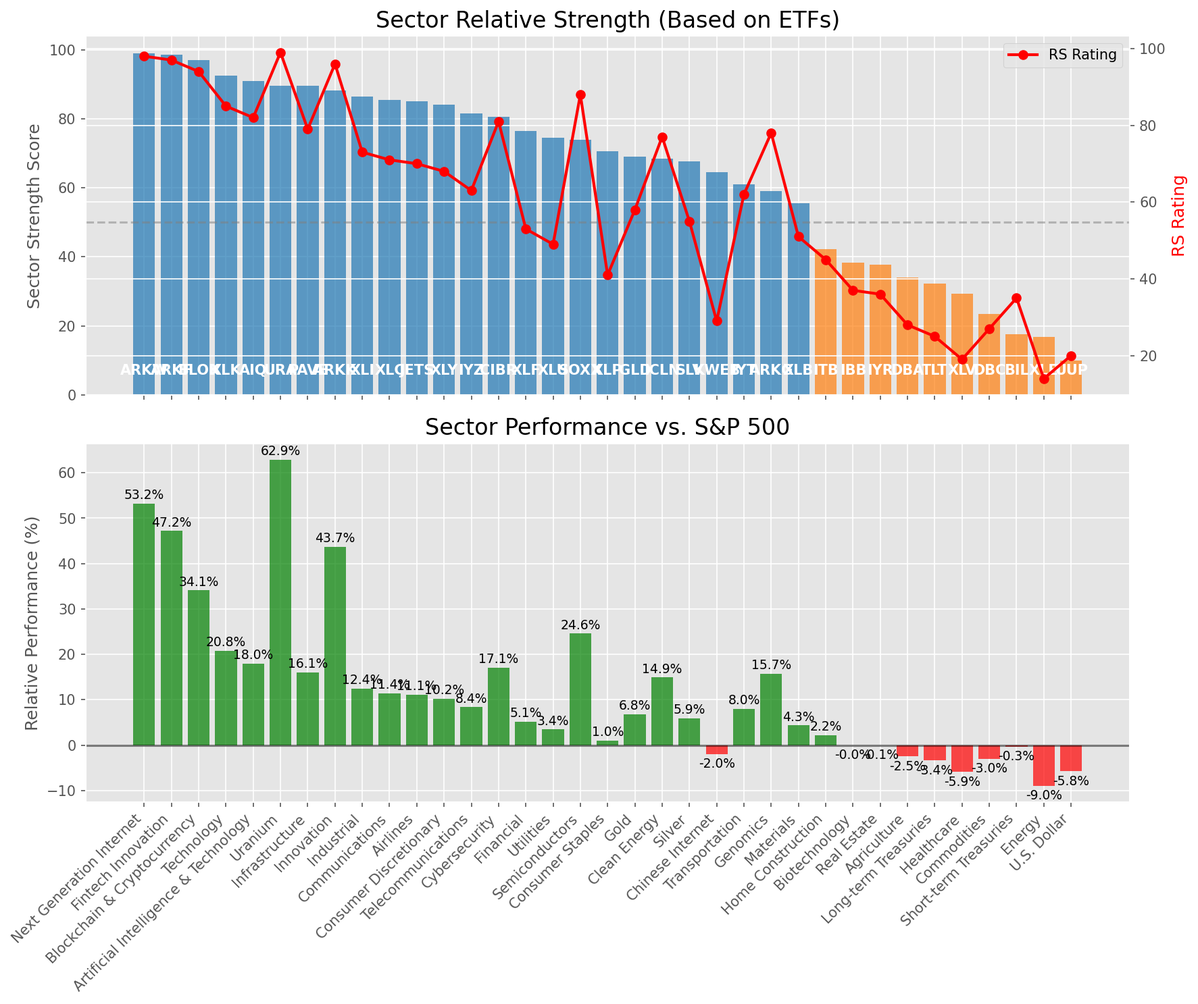
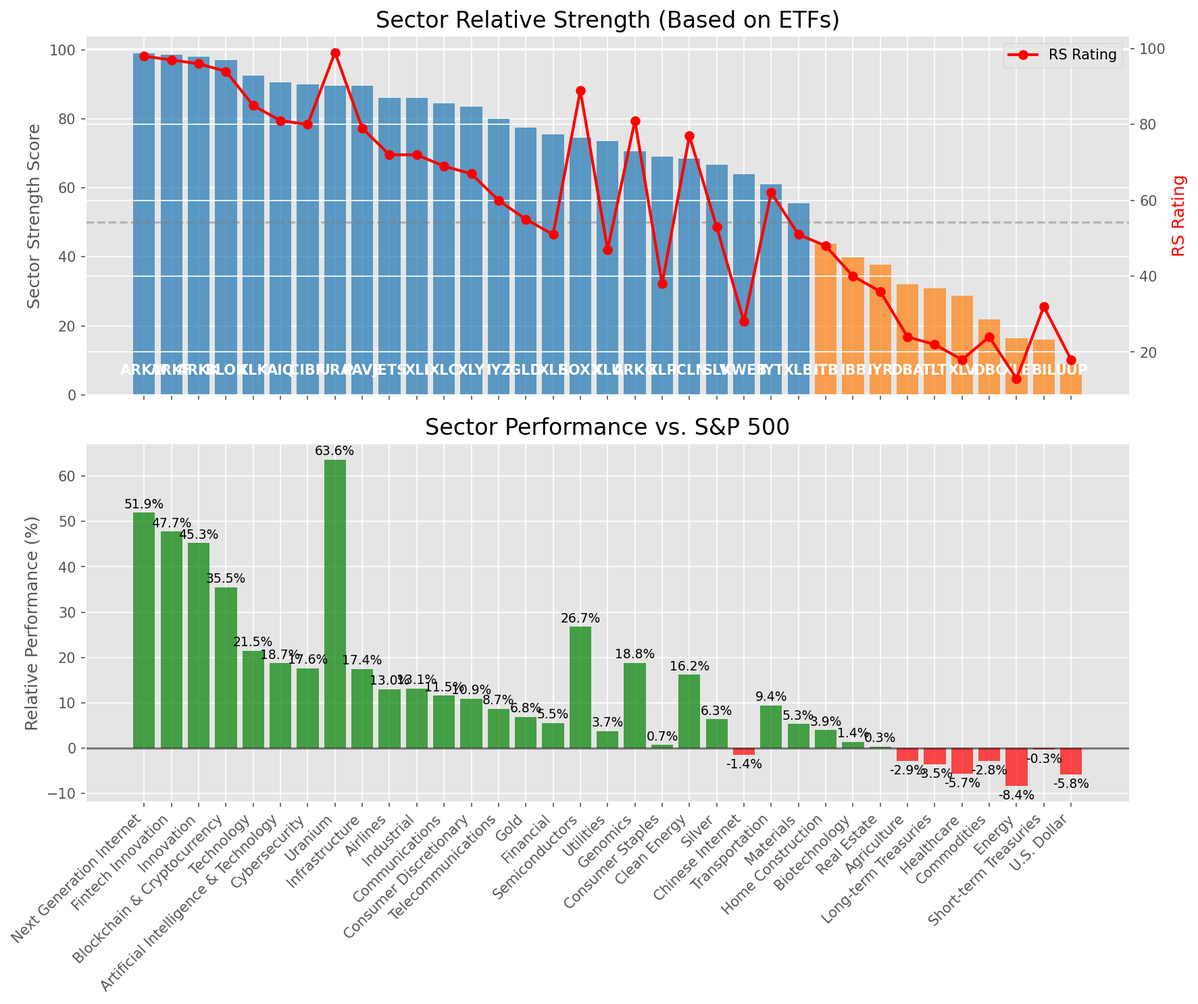
Add market report for 2025-07-01

diff --git a/oneil_relative_strength_report_2025-07-01.md b/oneil_relative_strength_report_2025-07-01.md
@@ -9,11 +9,11 @@
 | Metric | Value |
 |--------|-------|
 | **Market Valuation** | **Overvalued** |
-| **Current Ratio** | 10.12 |
+| **Current Ratio** | 10.15 |
 | **Historical Mean** | 9.36 |
 | **Standard Deviation** | 0.46 |
 | **Z-Score (StdDev from Mean)** | 1.69 |
-| **Total Market Cap** | $303.17 trillion |
+| **Total Market Cap** | $304.20 trillion |
 | **GDP** | $29.96 trillion |
 
 ## **Market Insights**
@@ -49,41 +49,41 @@ Based on William O'Neil's Relative Strength Methodology
 
 | ETF | Strength | RS Rating | Performance | Above Key MAs | Trend | Sector |
 |-----|----------|-----------|-------------|--------------|-------|--------|
-| [ARKW](https://www.tradingview.com/chart/?symbol=ARKW) | 99.0 | 98.0 | 53.20% | 10d ✓, 50d ✓, 200d ✓ | ↗ | Next Generation Internet |
-| [ARKF](https://www.tradingview.com/chart/?symbol=ARKF) | 98.5 | 97.0 | 47.17% | 10d ✓, 50d ✓, 200d ✓ | ↗ | Fintech Innovation |
-| [BLOK](https://www.tradingview.com/chart/?symbol=BLOK) | 97.0 | 94.0 | 34.08% | 10d ✓, 50d ✓, 200d ✓ | ↗ | Blockchain & Cryptocurrency |
-| [XLK](https://www.tradingview.com/chart/?symbol=XLK) | 92.5 | 85.0 | 20.81% | 10d ✓, 50d ✓, 200d ✓ | ↗ | Technology |
-| [AIQ](https://www.tradingview.com/chart/?symbol=AIQ) | 91.0 | 82.0 | 18.00% | 10d ✓, 50d ✓, 200d ✓ | ↗ | Artificial Intelligence & Technology |
-| [URA](https://www.tradingview.com/chart/?symbol=URA) | 89.6 | 99.0 | 62.89% | 10d ✗, 50d ✓, 200d ✓ | ↗ | Uranium |
-| [PAVE](https://www.tradingview.com/chart/?symbol=PAVE) | 89.5 | 79.0 | 16.06% | 10d ✓, 50d ✓, 200d ✓ | ↗ | Infrastructure |
-| [ARKK](https://www.tradingview.com/chart/?symbol=ARKK) | 88.1 | 96.0 | 43.74% | 10d ✗, 50d ✓, 200d ✓ | ↗ | Innovation |
-| [XLI](https://www.tradingview.com/chart/?symbol=XLI) | 86.5 | 73.0 | 12.44% | 10d ✓, 50d ✓, 200d ✓ | ↗ | Industrial |
-| [XLC](https://www.tradingview.com/chart/?symbol=XLC) | 85.5 | 71.0 | 11.40% | 10d ✓, 50d ✓, 200d ✓ | ↗ | Communications |
-| [JETS](https://www.tradingview.com/chart/?symbol=JETS) | 85.0 | 70.0 | 11.07% | 10d ✓, 50d ✓, 200d ✓ | ↗ | Airlines |
-| [XLY](https://www.tradingview.com/chart/?symbol=XLY) | 84.0 | 68.0 | 10.19% | 10d ✓, 50d ✓, 200d ✓ | ↗ | Consumer Discretionary |
-| [IYZ](https://www.tradingview.com/chart/?symbol=IYZ) | 81.5 | 63.0 | 8.36% | 10d ✓, 50d ✓, 200d ✓ | ↗ | Telecommunications |
-| [CIBR](https://www.tradingview.com/chart/?symbol=CIBR) | 80.6 | 81.0 | 17.10% | 10d ✗, 50d ✓, 200d ✓ | ↗ | Cybersecurity |
-| [XLF](https://www.tradingview.com/chart/?symbol=XLF) | 76.5 | 53.0 | 5.14% | 10d ✓, 50d ✓, 200d ✓ | ↗ | Financial |
-| [XLU](https://www.tradingview.com/chart/?symbol=XLU) | 74.5 | 49.0 | 3.45% | 10d ✓, 50d ✓, 200d ✓ | ↗ | Utilities |
-| [SOXX](https://www.tradingview.com/chart/?symbol=SOXX) | 74.0 | 88.0 | 24.59% | 10d ✓, 50d ✓, 200d ✓ | ↘ | Semiconductors |
-| [XLP](https://www.tradingview.com/chart/?symbol=XLP) | 70.5 | 41.0 | 0.96% | 10d ✓, 50d ✓, 200d ✓ | ↗ | Consumer Staples |
-| [GLD](https://www.tradingview.com/chart/?symbol=GLD) | 69.1 | 58.0 | 6.77% | 10d ✗, 50d ✓, 200d ✓ | ↗ | Gold |
-| [ICLN](https://www.tradingview.com/chart/?symbol=ICLN) | 68.5 | 77.0 | 14.89% | 10d ✓, 50d ✓, 200d ✓ | ↘ | Clean Energy |
-| [SLV](https://www.tradingview.com/chart/?symbol=SLV) | 67.6 | 55.0 | 5.94% | 10d ✗, 50d ✓, 200d ✓ | ↗ | Silver |
-| [KWEB](https://www.tradingview.com/chart/?symbol=KWEB) | 64.5 | 29.0 | -2.01% | 10d ✓, 50d ✓, 200d ✓ | ↗ | Chinese Internet |
-| [IYT](https://www.tradingview.com/chart/?symbol=IYT) | 61.0 | 62.0 | 8.00% | 10d ✓, 50d ✓, 200d ✓ | ↘ | Transportation |
-| [ARKG](https://www.tradingview.com/chart/?symbol=ARKG) | 59.1 | 78.0 | 15.71% | 10d ✗, 50d ✓, 200d ✓ | ↘ | Genomics |
-| [XLB](https://www.tradingview.com/chart/?symbol=XLB) | 55.5 | 51.0 | 4.34% | 10d ✓, 50d ✓, 200d ✓ | ↘ | Materials |
-| [ITB](https://www.tradingview.com/chart/?symbol=ITB) | 42.3 | 45.0 | 2.18% | 10d ✓, 50d ✓, 200d ✗ | ↘ | Home Construction |
-| [IBB](https://www.tradingview.com/chart/?symbol=IBB) | 38.3 | 37.0 | -0.03% | 10d ✓, 50d ✓, 200d ✗ | ↘ | Biotechnology |
-| [IYR](https://www.tradingview.com/chart/?symbol=IYR) | 37.8 | 36.0 | -0.10% | 10d ✓, 50d ✓, 200d ✗ | ↘ | Real Estate |
-| [DBA](https://www.tradingview.com/chart/?symbol=DBA) | 34.0 | 28.0 | -2.52% | 10d ✗, 50d ✗, 200d ✗ | ↗ | Agriculture |
-| [TLT](https://www.tradingview.com/chart/?symbol=TLT) | 32.3 | 25.0 | -3.38% | 10d ✓, 50d ✓, 200d ✗ | ↘ | Long-term Treasuries |
-| [XLV](https://www.tradingview.com/chart/?symbol=XLV) | 29.3 | 19.0 | -5.92% | 10d ✓, 50d ✓, 200d ✗ | ↘ | Healthcare |
-| [DBC](https://www.tradingview.com/chart/?symbol=DBC) | 23.4 | 27.0 | -3.02% | 10d ✗, 50d ✓, 200d ✗ | ↘ | Commodities |
-| [BIL](https://www.tradingview.com/chart/?symbol=BIL) | 17.5 | 35.0 | -0.32% | 10d ✗, 50d ✗, 200d ✗ | ↘ | Short-term Treasuries |
-| [XLE](https://www.tradingview.com/chart/?symbol=XLE) | 16.9 | 14.0 | -9.00% | 10d ✗, 50d ✓, 200d ✗ | ↘ | Energy |
-| [UUP](https://www.tradingview.com/chart/?symbol=UUP) | 10.0 | 20.0 | -5.78% | 10d ✗, 50d ✗, 200d ✗ | ↘ | U.S. Dollar |
+| [ARKW](https://www.tradingview.com/chart/?symbol=ARKW) | 99.0 | 98.0 | 51.92% | 10d ✓, 50d ✓, 200d ✓ | ↗ | Next Generation Internet |
+| [ARKF](https://www.tradingview.com/chart/?symbol=ARKF) | 98.5 | 97.0 | 47.75% | 10d ✓, 50d ✓, 200d ✓ | ↗ | Fintech Innovation |
+| [ARKK](https://www.tradingview.com/chart/?symbol=ARKK) | 98.0 | 96.0 | 45.25% | 10d ✓, 50d ✓, 200d ✓ | ↗ | Innovation |
+| [BLOK](https://www.tradingview.com/chart/?symbol=BLOK) | 97.0 | 94.0 | 35.52% | 10d ✓, 50d ✓, 200d ✓ | ↗ | Blockchain & Cryptocurrency |
+| [XLK](https://www.tradingview.com/chart/?symbol=XLK) | 92.5 | 85.0 | 21.50% | 10d ✓, 50d ✓, 200d ✓ | ↗ | Technology |
+| [AIQ](https://www.tradingview.com/chart/?symbol=AIQ) | 90.5 | 81.0 | 18.71% | 10d ✓, 50d ✓, 200d ✓ | ↗ | Artificial Intelligence & Technology |
+| [CIBR](https://www.tradingview.com/chart/?symbol=CIBR) | 90.0 | 80.0 | 17.62% | 10d ✓, 50d ✓, 200d ✓ | ↗ | Cybersecurity |
+| [URA](https://www.tradingview.com/chart/?symbol=URA) | 89.6 | 99.0 | 63.63% | 10d ✗, 50d ✓, 200d ✓ | ↗ | Uranium |
+| [PAVE](https://www.tradingview.com/chart/?symbol=PAVE) | 89.5 | 79.0 | 17.44% | 10d ✓, 50d ✓, 200d ✓ | ↗ | Infrastructure |
+| [JETS](https://www.tradingview.com/chart/?symbol=JETS) | 86.0 | 72.0 | 12.95% | 10d ✓, 50d ✓, 200d ✓ | ↗ | Airlines |
+| [XLI](https://www.tradingview.com/chart/?symbol=XLI) | 86.0 | 72.0 | 13.12% | 10d ✓, 50d ✓, 200d ✓ | ↗ | Industrial |
+| [XLC](https://www.tradingview.com/chart/?symbol=XLC) | 84.5 | 69.0 | 11.54% | 10d ✓, 50d ✓, 200d ✓ | ↗ | Communications |
+| [XLY](https://www.tradingview.com/chart/?symbol=XLY) | 83.5 | 67.0 | 10.93% | 10d ✓, 50d ✓, 200d ✓ | ↗ | Consumer Discretionary |
+| [IYZ](https://www.tradingview.com/chart/?symbol=IYZ) | 80.0 | 60.0 | 8.67% | 10d ✓, 50d ✓, 200d ✓ | ↗ | Telecommunications |
+| [GLD](https://www.tradingview.com/chart/?symbol=GLD) | 77.5 | 55.0 | 6.85% | 10d ✓, 50d ✓, 200d ✓ | ↗ | Gold |
+| [XLF](https://www.tradingview.com/chart/?symbol=XLF) | 75.5 | 51.0 | 5.49% | 10d ✓, 50d ✓, 200d ✓ | ↗ | Financial |
+| [SOXX](https://www.tradingview.com/chart/?symbol=SOXX) | 74.5 | 89.0 | 26.74% | 10d ✓, 50d ✓, 200d ✓ | ↘ | Semiconductors |
+| [XLU](https://www.tradingview.com/chart/?symbol=XLU) | 73.5 | 47.0 | 3.69% | 10d ✓, 50d ✓, 200d ✓ | ↗ | Utilities |
+| [ARKG](https://www.tradingview.com/chart/?symbol=ARKG) | 70.5 | 81.0 | 18.76% | 10d ✓, 50d ✓, 200d ✓ | ↘ | Genomics |
+| [XLP](https://www.tradingview.com/chart/?symbol=XLP) | 69.0 | 38.0 | 0.69% | 10d ✓, 50d ✓, 200d ✓ | ↗ | Consumer Staples |
+| [ICLN](https://www.tradingview.com/chart/?symbol=ICLN) | 68.5 | 77.0 | 16.20% | 10d ✓, 50d ✓, 200d ✓ | ↘ | Clean Energy |
+| [SLV](https://www.tradingview.com/chart/?symbol=SLV) | 66.6 | 53.0 | 6.32% | 10d ✗, 50d ✓, 200d ✓ | ↗ | Silver |
+| [KWEB](https://www.tradingview.com/chart/?symbol=KWEB) | 64.0 | 28.0 | -1.44% | 10d ✓, 50d ✓, 200d ✓ | ↗ | Chinese Internet |
+| [IYT](https://www.tradingview.com/chart/?symbol=IYT) | 61.0 | 62.0 | 9.40% | 10d ✓, 50d ✓, 200d ✓ | ↘ | Transportation |
+| [XLB](https://www.tradingview.com/chart/?symbol=XLB) | 55.5 | 51.0 | 5.33% | 10d ✓, 50d ✓, 200d ✓ | ↘ | Materials |
+| [ITB](https://www.tradingview.com/chart/?symbol=ITB) | 43.8 | 48.0 | 3.95% | 10d ✓, 50d ✓, 200d ✗ | ↘ | Home Construction |
+| [IBB](https://www.tradingview.com/chart/?symbol=IBB) | 39.8 | 40.0 | 1.39% | 10d ✓, 50d ✓, 200d ✗ | ↘ | Biotechnology |
+| [IYR](https://www.tradingview.com/chart/?symbol=IYR) | 37.8 | 36.0 | 0.28% | 10d ✓, 50d ✓, 200d ✗ | ↘ | Real Estate |
+| [DBA](https://www.tradingview.com/chart/?symbol=DBA) | 32.0 | 24.0 | -2.88% | 10d ✗, 50d ✗, 200d ✗ | ↗ | Agriculture |
+| [TLT](https://www.tradingview.com/chart/?symbol=TLT) | 30.8 | 22.0 | -3.55% | 10d ✓, 50d ✓, 200d ✗ | ↘ | Long-term Treasuries |
+| [XLV](https://www.tradingview.com/chart/?symbol=XLV) | 28.8 | 18.0 | -5.67% | 10d ✓, 50d ✓, 200d ✗ | ↘ | Healthcare |
+| [DBC](https://www.tradingview.com/chart/?symbol=DBC) | 21.9 | 24.0 | -2.84% | 10d ✗, 50d ✓, 200d ✗ | ↘ | Commodities |
+| [XLE](https://www.tradingview.com/chart/?symbol=XLE) | 16.4 | 13.0 | -8.37% | 10d ✗, 50d ✓, 200d ✗ | ↘ | Energy |
+| [BIL](https://www.tradingview.com/chart/?symbol=BIL) | 16.0 | 32.0 | -0.32% | 10d ✗, 50d ✗, 200d ✗ | ↘ | Short-term Treasuries |
+| [UUP](https://www.tradingview.com/chart/?symbol=UUP) | 9.0 | 18.0 | -5.78% | 10d ✗, 50d ✗, 200d ✗ | ↘ | U.S. Dollar |
 
 ### **Sector ETF Performance Interpretation**
 
@@ -98,167 +98,145 @@ This table shows the relative strength metrics for different market sectors base
 
 ### **Current Sector Leadership**
 
-The current market leadership is coming from the following sectors: **Next Generation Internet, Fintech Innovation, Blockchain & Cryptocurrency**.
+The current market leadership is coming from the following sectors: **Next Generation Internet, Fintech Innovation, Innovation**.
 
-The **Next Generation Internet** sector (represented by **ARKW**) is showing particularly strong relative strength with an RS rating of 98.0 and performance of 53.20% vs. the S&P 500. This sector is trading above its 10-day, 50-day, 200-day moving average(s). Investors should consider focusing on high RS stocks within these leading sectors for potential outperformance.
+The **Next Generation Internet** sector (represented by **ARKW**) is showing particularly strong relative strength with an RS rating of 98.0 and performance of 51.92% vs. the S&P 500. This sector is trading above its 10-day, 50-day, 200-day moving average(s). Investors should consider focusing on high RS stocks within these leading sectors for potential outperformance.
 
 ---
 
 ## **Buy Recommendations**
 
-The following 62 stocks show exceptional relative strength:
+The following 59 stocks show exceptional relative strength:
 
 | RS Rating | Buy Score | Current Price | Chart | Name | Ticker |
 |-----------|-----------|---------------|-------|------|--------|
+| 100 | 100 | $146.01 | [Chart](https://www.tradingview.com/chart/?symbol=CLS) | Celestica, Inc. | CLS |
 | 100 | 100 | $140.10 | [Chart](https://www.tradingview.com/chart/?symbol=LMB) | Limbach Holdings, Inc Common Stock | LMB |
-| 100 | 100 | $166.50 | [Chart](https://www.tradingview.com/chart/?symbol=SEZL) | Sezzle Inc. Common Stock | SEZL |
-| 100 | 100 | $91.02 | [Chart](https://www.tradingview.com/chart/?symbol=HOOD) | Robinhood Markets, Inc. Class A Common Stock | HOOD |
-| 100 | 100 | $145.58 | [Chart](https://www.tradingview.com/chart/?symbol=CLS) | Celestica, Inc. | CLS |
-| 100 | 100 | $260.63 | [Chart](https://www.tradingview.com/chart/?symbol=DAVE) | Dave Inc. Class A Common Stock | DAVE |
-| 99 | 100 | $74.00 | [Chart](https://www.tradingview.com/chart/?symbol=ODD) | ODDITY Tech Ltd. Class A Ordinary Shares | ODD |
-| 99 | 100 | $334.16 | [Chart](https://www.tradingview.com/chart/?symbol=CVNA) | Carvana Co. | CVNA |
-| 98 | 100 | $214.54 | [Chart](https://www.tradingview.com/chart/?symbol=JBL) | Jabil Inc. | JBL |
-| 98 | 100 | $309.87 | [Chart](https://www.tradingview.com/chart/?symbol=RCL) | Royal Caribbean Group | RCL |
-| 98 | 100 | $43.92 | [Chart](https://www.tradingview.com/chart/?symbol=FARO) | Faro Technologies Inc | FARO |
-| 97 | 100 | $43.23 | [Chart](https://www.tradingview.com/chart/?symbol=KTOS) | Kratos Defense & Security Solutions, Inc. | KTOS |
-| 97 | 100 | $268.91 | [Chart](https://www.tradingview.com/chart/?symbol=CRS) | Carpenter Technology Corp | CRS |
-| 96 | 100 | $37.55 | [Chart](https://www.tradingview.com/chart/?symbol=AS) | Amer Sports, Inc. | AS |
-| 95 | 100 | $1292.14 | [Chart](https://www.tradingview.com/chart/?symbol=NFLX) | NetFlix Inc | NFLX |
-| 95 | 100 | $72.53 | [Chart](https://www.tradingview.com/chart/?symbol=URBN) | Urban Outfitters Inc | URBN |
-| 95 | 100 | $179.73 | [Chart](https://www.tradingview.com/chart/?symbol=HWM) | Howmet Aerospace Inc. | HWM |
-| 94 | 100 | $242.29 | [Chart](https://www.tradingview.com/chart/?symbol=WWD) | Woodward, Inc. | WWD |
-| 93 | 100 | $75.77 | [Chart](https://www.tradingview.com/chart/?symbol=TPB) | Turning Point Brands, Inc. | TPB |
-| 93 | 100 | $41.13 | [Chart](https://www.tradingview.com/chart/?symbol=KD) | Kyndryl Holdings, Inc. | KD |
-| 92 | 100 | $63.60 | [Chart](https://www.tradingview.com/chart/?symbol=CAKE) | Cheesecake Factory (The) | CAKE |
-| 92 | 100 | $17.39 | [Chart](https://www.tradingview.com/chart/?symbol=DAN) | Dana Incorporated | DAN |
-| 92 | 100 | $72.86 | [Chart](https://www.tradingview.com/chart/?symbol=ULS) | UL Solutions Inc. | ULS |
-| 92 | 100 | $104.36 | [Chart](https://www.tradingview.com/chart/?symbol=JCI) | Johnson Controls International plc | JCI |
-| 91 | 100 | $53.31 | [Chart](https://www.tradingview.com/chart/?symbol=IBKR) | Interactive Brokers Group, Inc. Class A Common Stock | IBKR |
-| 91 | 100 | $24.64 | [Chart](https://www.tradingview.com/chart/?symbol=KAR) | OPENLANE, Inc | KAR |
-| 91 | 100 | $32.69 | [Chart](https://www.tradingview.com/chart/?symbol=PRDO) | Perdoceo Education Corporation | PRDO |
-| 90 | 100 | $27.50 | [Chart](https://www.tradingview.com/chart/?symbol=SRAD) | Sportradar Group AG Class A Ordinary Shares | SRAD |
-| 90 | 100 | $97.83 | [Chart](https://www.tradingview.com/chart/?symbol=SANM) | Sanmina  Corp | SANM |
-| 89 | 100 | $88.21 | [Chart](https://www.tradingview.com/chart/?symbol=TPR) | Tapestry, Inc. Common Stock | TPR |
-| 89 | 100 | $5789.24 | [Chart](https://www.tradingview.com/chart/?symbol=BKNG) | Booking Holdings Inc. Common Stock | BKNG |
-| 89 | 100 | $150.52 | [Chart](https://www.tradingview.com/chart/?symbol=COOP) | Mr. Cooper Group Inc. Common Stock | COOP |
-| 87 | 100 | $183.00 | [Chart](https://www.tradingview.com/chart/?symbol=EAT) | Brinker International, Inc. | EAT |
-| 88 | 99 | $248.10 | [Chart](https://www.tradingview.com/chart/?symbol=GE) | GE Aerospace | GE |
-| 86 | 99 | $166.97 | [Chart](https://www.tradingview.com/chart/?symbol=CAH) | Cardinal Health, Inc. | CAH |
-| 88 | 98 | $141.69 | [Chart](https://www.tradingview.com/chart/?symbol=PPA) | Invesco Aerospace & Defense ETF | PPA |
-| 86 | 98 | $122.63 | [Chart](https://www.tradingview.com/chart/?symbol=EHC) | Encompass Health Corporation Common Stock | EHC |
-| 84 | 98 | $21.27 | [Chart](https://www.tradingview.com/chart/?symbol=KT) | KT Corp. | KT |
-| 84 | 98 | $91.14 | [Chart](https://www.tradingview.com/chart/?symbol=SNEX) | StoneX Group Inc. Common Stock | SNEX |
-| 86 | 97 | $27.73 | [Chart](https://www.tradingview.com/chart/?symbol=UVE) | UNIVERSAL INSURANCE HLDG, INC. | UVE |
-| 84 | 97 | $29.27 | [Chart](https://www.tradingview.com/chart/?symbol=CAE) | CAE INC | CAE |
-| 84 | 97 | $36.23 | [Chart](https://www.tradingview.com/chart/?symbol=AHR) | American Healthcare REIT, Inc. | AHR |
-| 87 | 96 | $48.15 | [Chart](https://www.tradingview.com/chart/?symbol=SIL) | Global X Silver Miners ETF (NEW) | SIL |
-| 85 | 96 | $184.72 | [Chart](https://www.tradingview.com/chart/?symbol=ITA) | iShares U.S. Aerospace & Defense ETF | ITA |
-| 83 | 96 | $18.23 | [Chart](https://www.tradingview.com/chart/?symbol=BCS) | Barclays PLC | BCS |
-| 83 | 96 | $63.81 | [Chart](https://www.tradingview.com/chart/?symbol=CHEF) | The Chef's Warehouse Inc | CHEF |
-| 83 | 96 | $43.88 | [Chart](https://www.tradingview.com/chart/?symbol=EXEL) | Exelixis Inc | EXEL |
-| 83 | 94 | $74.98 | [Chart](https://www.tradingview.com/chart/?symbol=CTVA) | Corteva, Inc. Common Stock | CTVA |
-| 82 | 94 | $510.27 | [Chart](https://www.tradingview.com/chart/?symbol=CASY) | Casey's General Stores Inc | CASY |
-| 81 | 94 | $290.96 | [Chart](https://www.tradingview.com/chart/?symbol=IBM) | International Business Machines Corporation | IBM |
-| 83 | 93 | $50.70 | [Chart](https://www.tradingview.com/chart/?symbol=GH) | Guardant Health, Inc. Common Stock | GH |
-| 83 | 93 | $110.33 | [Chart](https://www.tradingview.com/chart/?symbol=SPMO) | Invesco S&P 500 Momentum ETF | SPMO |
-| 83 | 93 | $212.56 | [Chart](https://www.tradingview.com/chart/?symbol=COF) | Capital One Financial | COF |
-| 82 | 93 | $77.36 | [Chart](https://www.tradingview.com/chart/?symbol=USFD) | US Foods Holding Corp. | USFD |
-| 82 | 93 | $20.41 | [Chart](https://www.tradingview.com/chart/?symbol=SPNT) | SiriusPoint Ltd. | SPNT |
-| 82 | 93 | $100.31 | [Chart](https://www.tradingview.com/chart/?symbol=LBRDK) | Liberty Broadband Corporation Class C | LBRDK |
-| 82 | 93 | $221.81 | [Chart](https://www.tradingview.com/chart/?symbol=BAP) | Credicorp LTD | BAP |
-| 80 | 92 | $79.70 | [Chart](https://www.tradingview.com/chart/?symbol=LLYVK) | Liberty Media Corporation Series C Liberty Live Common Stock | LLYVK |
-| 82 | 91 | $120.70 | [Chart](https://www.tradingview.com/chart/?symbol=FUTU) | Futu Holdings Limited American Depositary Shares | FUTU |
-| 81 | 91 | $66.45 | [Chart](https://www.tradingview.com/chart/?symbol=SLF) | Sun Life Financial Inc. | SLF |
-| 81 | 91 | $29.07 | [Chart](https://www.tradingview.com/chart/?symbol=NTGR) | NETGEAR, Inc. | NTGR |
-| 80 | 91 | $36.27 | [Chart](https://www.tradingview.com/chart/?symbol=RPRX) | Royalty Pharma plc Class A Ordinary Shares | RPRX |
-| 80 | 90 | $90.49 | [Chart](https://www.tradingview.com/chart/?symbol=SEIC) | SEI Investments Co | SEIC |
+| 100 | 100 | $90.61 | [Chart](https://www.tradingview.com/chart/?symbol=HOOD) | Robinhood Markets, Inc. Class A Common Stock | HOOD |
+| 100 | 100 | $162.21 | [Chart](https://www.tradingview.com/chart/?symbol=SEZL) | Sezzle Inc. Common Stock | SEZL |
+| 100 | 100 | $254.10 | [Chart](https://www.tradingview.com/chart/?symbol=DAVE) | Dave Inc. Class A Common Stock | DAVE |
+| 99 | 100 | $74.52 | [Chart](https://www.tradingview.com/chart/?symbol=ODD) | ODDITY Tech Ltd. Class A Ordinary Shares | ODD |
+| 99 | 100 | $338.44 | [Chart](https://www.tradingview.com/chart/?symbol=CVNA) | Carvana Co. | CVNA |
+| 98 | 100 | $43.95 | [Chart](https://www.tradingview.com/chart/?symbol=FARO) | Faro Technologies Inc | FARO |
+| 98 | 100 | $214.81 | [Chart](https://www.tradingview.com/chart/?symbol=JBL) | Jabil Inc. | JBL |
+| 98 | 100 | $312.29 | [Chart](https://www.tradingview.com/chart/?symbol=RCL) | Royal Caribbean Group | RCL |
+| 97 | 100 | $271.36 | [Chart](https://www.tradingview.com/chart/?symbol=CRS) | Carpenter Technology Corp | CRS |
+| 96 | 100 | $53.50 | [Chart](https://www.tradingview.com/chart/?symbol=BBW) | Build-A-Bear Workshop, Inc. | BBW |
+| 96 | 100 | $20.72 | [Chart](https://www.tradingview.com/chart/?symbol=MIR) | Mirion Technologies, Inc. | MIR |
+| 96 | 100 | $37.81 | [Chart](https://www.tradingview.com/chart/?symbol=AS) | Amer Sports, Inc. | AS |
+| 95 | 100 | $73.78 | [Chart](https://www.tradingview.com/chart/?symbol=URBN) | Urban Outfitters Inc | URBN |
+| 95 | 100 | $1287.83 | [Chart](https://www.tradingview.com/chart/?symbol=NFLX) | NetFlix Inc | NFLX |
+| 94 | 100 | $44.88 | [Chart](https://www.tradingview.com/chart/?symbol=DRS) | Leonardo DRS, Inc. Common Stock | DRS |
+| 94 | 100 | $178.03 | [Chart](https://www.tradingview.com/chart/?symbol=HWM) | Howmet Aerospace Inc. | HWM |
+| 93 | 100 | $41.91 | [Chart](https://www.tradingview.com/chart/?symbol=KD) | Kyndryl Holdings, Inc. | KD |
+| 93 | 100 | $17.70 | [Chart](https://www.tradingview.com/chart/?symbol=DAN) | Dana Incorporated | DAN |
+| 92 | 100 | $134.59 | [Chart](https://www.tradingview.com/chart/?symbol=NTES) | NetEase, inc. | NTES |
+| 92 | 100 | $104.72 | [Chart](https://www.tradingview.com/chart/?symbol=JCI) | Johnson Controls International plc | JCI |
+| 92 | 100 | $75.77 | [Chart](https://www.tradingview.com/chart/?symbol=TPB) | Turning Point Brands, Inc. | TPB |
+| 92 | 100 | $64.31 | [Chart](https://www.tradingview.com/chart/?symbol=CAKE) | Cheesecake Factory (The) | CAKE |
+| 92 | 100 | $32.94 | [Chart](https://www.tradingview.com/chart/?symbol=PRDO) | Perdoceo Education Corporation | PRDO |
+| 92 | 100 | $54.53 | [Chart](https://www.tradingview.com/chart/?symbol=IBKR) | Interactive Brokers Group, Inc. Class A Common Stock | IBKR |
+| 91 | 100 | $98.61 | [Chart](https://www.tradingview.com/chart/?symbol=SANM) | Sanmina  Corp | SANM |
+| 91 | 100 | $24.90 | [Chart](https://www.tradingview.com/chart/?symbol=KAR) | OPENLANE, Inc | KAR |
+| 90 | 100 | $27.66 | [Chart](https://www.tradingview.com/chart/?symbol=SRAD) | Sportradar Group AG Class A Ordinary Shares | SRAD |
+| 90 | 100 | $152.57 | [Chart](https://www.tradingview.com/chart/?symbol=COOP) | Mr. Cooper Group Inc. Common Stock | COOP |
+| 89 | 100 | $88.98 | [Chart](https://www.tradingview.com/chart/?symbol=TPR) | Tapestry, Inc. Common Stock | TPR |
+| 87 | 100 | $184.11 | [Chart](https://www.tradingview.com/chart/?symbol=EAT) | Brinker International, Inc. | EAT |
+| 88 | 99 | $248.74 | [Chart](https://www.tradingview.com/chart/?symbol=GE) | GE Aerospace | GE |
+| 88 | 99 | $5789.24 | [Chart](https://www.tradingview.com/chart/?symbol=BKNG) | Booking Holdings Inc. Common Stock | BKNG |
+| 86 | 97 | $283.47 | [Chart](https://www.tradingview.com/chart/?symbol=VEEV) | Veeva Systems Inc. | VEEV |
+| 83 | 97 | $21.31 | [Chart](https://www.tradingview.com/chart/?symbol=KT) | KT Corp. | KT |
+| 86 | 95 | $48.46 | [Chart](https://www.tradingview.com/chart/?symbol=SIL) | Global X Silver Miners ETF (NEW) | SIL |
+| 84 | 95 | $184.97 | [Chart](https://www.tradingview.com/chart/?symbol=ITA) | iShares U.S. Aerospace & Defense ETF | ITA |
+| 84 | 95 | $27.73 | [Chart](https://www.tradingview.com/chart/?symbol=UVE) | UNIVERSAL INSURANCE HLDG, INC. | UVE |
+| 82 | 95 | $18.29 | [Chart](https://www.tradingview.com/chart/?symbol=BCS) | Barclays PLC | BCS |
+| 81 | 95 | $90.54 | [Chart](https://www.tradingview.com/chart/?symbol=SNEX) | StoneX Group Inc. Common Stock | SNEX |
+| 84 | 94 | $139.78 | [Chart](https://www.tradingview.com/chart/?symbol=PPA) | Invesco Aerospace & Defense ETF | PPA |
+| 82 | 94 | $120.70 | [Chart](https://www.tradingview.com/chart/?symbol=EHC) | Encompass Health Corporation Common Stock | EHC |
+| 81 | 94 | $43.86 | [Chart](https://www.tradingview.com/chart/?symbol=EXEL) | Exelixis Inc | EXEL |
+| 83 | 93 | $29.46 | [Chart](https://www.tradingview.com/chart/?symbol=NTGR) | NETGEAR, Inc. | NTGR |
+| 82 | 93 | $75.16 | [Chart](https://www.tradingview.com/chart/?symbol=CTVA) | Corteva, Inc. Common Stock | CTVA |
+| 80 | 93 | $29.05 | [Chart](https://www.tradingview.com/chart/?symbol=CAE) | CAE INC | CAE |
+| 82 | 92 | $214.44 | [Chart](https://www.tradingview.com/chart/?symbol=COF) | Capital One Financial | COF |
+| 82 | 92 | $110.50 | [Chart](https://www.tradingview.com/chart/?symbol=SPMO) | Invesco S&P 500 Momentum ETF | SPMO |
+| 82 | 92 | $50.91 | [Chart](https://www.tradingview.com/chart/?symbol=GH) | Guardant Health, Inc. Common Stock | GH |
+| 81 | 92 | $101.20 | [Chart](https://www.tradingview.com/chart/?symbol=LBRDK) | Liberty Broadband Corporation Class C | LBRDK |
+| 80 | 92 | $80.25 | [Chart](https://www.tradingview.com/chart/?symbol=LLYVK) | Liberty Media Corporation Series C Liberty Live Common Stock | LLYVK |
+| 80 | 92 | $74.10 | [Chart](https://www.tradingview.com/chart/?symbol=CIBR) | First Trust Exchange-Traded Fund II First Trust NASDAQ Cybersecurity ETF | CIBR |
+| 80 | 92 | $510.27 | [Chart](https://www.tradingview.com/chart/?symbol=CASY) | Casey's General Stores Inc | CASY |
+| 80 | 91 | $77.41 | [Chart](https://www.tradingview.com/chart/?symbol=USFD) | US Foods Holding Corp. | USFD |
+| 80 | 91 | $221.21 | [Chart](https://www.tradingview.com/chart/?symbol=BAP) | Credicorp LTD | BAP |
+| 80 | 91 | $20.31 | [Chart](https://www.tradingview.com/chart/?symbol=SPNT) | SiriusPoint Ltd. | SPNT |
+| 80 | 90 | $91.32 | [Chart](https://www.tradingview.com/chart/?symbol=SEIC) | SEI Investments Co | SEIC |
+| 80 | 89 | $120.71 | [Chart](https://www.tradingview.com/chart/?symbol=FUTU) | Futu Holdings Limited American Depositary Shares | FUTU |
 
 ---
 
 
 ## **Sell Recommendations**
 
-The following 77 stocks show deteriorating relative strength:
+The following 58 stocks show deteriorating relative strength:
 
 | RS Rating | Sell Score | Current Price | Chart | Name | Ticker |
 |-----------|------------|---------------|-------|------|--------|
-| 1 | 100 | $11.39 | [Chart](https://www.tradingview.com/chart/?symbol=NRIX) | Nurix Therapeutics, Inc. Common stock | NRIX |
-| 1 | 100 | $13.02 | [Chart](https://www.tradingview.com/chart/?symbol=RXST) | RxSight, Inc. Common Stock | RXST |
-| 1 | 100 | $27.91 | [Chart](https://www.tradingview.com/chart/?symbol=TECS) | Direxion Daily Technology Bear 3x Shares | TECS |
-| 1 | 100 | $15.31 | [Chart](https://www.tradingview.com/chart/?symbol=NVDS) | Investment Managers Series Trust II Tradr 1.5X Short NVDA Daily ETF | NVDS |
-| 1 | 100 | $25.93 | [Chart](https://www.tradingview.com/chart/?symbol=QID) | ProShares UltraShort QQQ | QID |
+| 1 | 100 | $27.46 | [Chart](https://www.tradingview.com/chart/?symbol=TECS) | Direxion Daily Technology Bear 3x Shares | TECS |
+| 1 | 100 | $25.75 | [Chart](https://www.tradingview.com/chart/?symbol=QID) | ProShares UltraShort QQQ | QID |
+| 1 | 100 | $16.15 | [Chart](https://www.tradingview.com/chart/?symbol=SRTY) | ProShares UltraPro Short Russell2000 | SRTY |
+| 1 | 100 | $13.29 | [Chart](https://www.tradingview.com/chart/?symbol=RXST) | RxSight, Inc. Common Stock | RXST |
+| 1 | 100 | $15.13 | [Chart](https://www.tradingview.com/chart/?symbol=NVDS) | Investment Managers Series Trust II Tradr 1.5X Short NVDA Daily ETF | NVDS |
 | 1 | 100 | $10.09 | [Chart](https://www.tradingview.com/chart/?symbol=HIBS) | Direxion Daily S&P 500 High Beta Bear 3X Shares | HIBS |
-| 1 | 100 | $24.12 | [Chart](https://www.tradingview.com/chart/?symbol=CRTO) | Criteo S.A. | CRTO |
-| 2 | 100 | $17.08 | [Chart](https://www.tradingview.com/chart/?symbol=SRTY) | ProShares UltraPro Short Russell2000 | SRTY |
-| 2 | 100 | $10.63 | [Chart](https://www.tradingview.com/chart/?symbol=WNC) | Wabash National Corp. | WNC |
-| 2 | 100 | $11.65 | [Chart](https://www.tradingview.com/chart/?symbol=LBRT) | Liberty Energy Inc. | LBRT |
-| 3 | 100 | $20.06 | [Chart](https://www.tradingview.com/chart/?symbol=BITI) | ProShares Short Bitcoin ETF | BITI |
-| 3 | 100 | $40.58 | [Chart](https://www.tradingview.com/chart/?symbol=SDOW) | ProShares UltraPro Short Dow 30 | SDOW |
-| 3 | 100 | $12.18 | [Chart](https://www.tradingview.com/chart/?symbol=VFC) | V.F. Corporation | VFC |
-| 3 | 100 | $43.81 | [Chart](https://www.tradingview.com/chart/?symbol=LINE) | Lineage, Inc. Common Stock | LINE |
-| 4 | 100 | $20.07 | [Chart](https://www.tradingview.com/chart/?symbol=HI) | Hillenbrand, Inc. | HI |
-| 4 | 100 | $16.77 | [Chart](https://www.tradingview.com/chart/?symbol=SDS) | ProShares UltraShort S&P500 | SDS |
-| 5 | 100 | $17.25 | [Chart](https://www.tradingview.com/chart/?symbol=CODI) | Compass Diversified | CODI |
-| 5 | 100 | $20.80 | [Chart](https://www.tradingview.com/chart/?symbol=HAL) | Halliburton Company | HAL |
-| 5 | 100 | $80.34 | [Chart](https://www.tradingview.com/chart/?symbol=LNTH) | Lantheus Holdings, Inc | LNTH |
-| 6 | 100 | $34.08 | [Chart](https://www.tradingview.com/chart/?symbol=PSQ) | ProShares Short QQQ | PSQ |
-| 6 | 100 | $15.23 | [Chart](https://www.tradingview.com/chart/?symbol=PD) | PagerDuty, Inc. | PD |
-| 6 | 100 | $28.76 | [Chart](https://www.tradingview.com/chart/?symbol=CRNX) | Crinetics Pharmaceuticals, Inc. | CRNX |
-| 6 | 100 | $33.40 | [Chart](https://www.tradingview.com/chart/?symbol=CYTK) | Cytokinetics Inc. | CYTK |
-| 8 | 100 | $23.89 | [Chart](https://www.tradingview.com/chart/?symbol=DXD) | ProShares UltraShort Dow 30 | DXD |
-| 8 | 100 | $32.12 | [Chart](https://www.tradingview.com/chart/?symbol=DVN) | Devon Energy Corporation | DVN |
-| 9 | 100 | $25.76 | [Chart](https://www.tradingview.com/chart/?symbol=ZSL) | ProShares UltraShort Silver | ZSL |
-| 10 | 100 | $13.66 | [Chart](https://www.tradingview.com/chart/?symbol=OCSL) | Oaktree Specialty Lending Corporation | OCSL |
-| 10 | 100 | $11.71 | [Chart](https://www.tradingview.com/chart/?symbol=KELYA) | Kelly Services Inc | KELYA |
-| 11 | 100 | $39.82 | [Chart](https://www.tradingview.com/chart/?symbol=SH) | ProShares Short S&P500 | SH |
-| 11 | 100 | $10.53 | [Chart](https://www.tradingview.com/chart/?symbol=LBTYK) | Liberty Global Ltd. Class C Common Shares | LBTYK |
-| 12 | 100 | $17.57 | [Chart](https://www.tradingview.com/chart/?symbol=DJT) | Trump Media & Technology Group Corp. Common Stock | DJT |
-| 12 | 100 | $17.85 | [Chart](https://www.tradingview.com/chart/?symbol=ZTO) | ZTO Express (Cayman) Inc. American Depositary Shares, each representing one Class A ordinary share | ZTO |
-| 13 | 100 | $36.68 | [Chart](https://www.tradingview.com/chart/?symbol=SARK) | Investment Managers Series Trust II Tradr 1X Short Innovation Daily ETF | SARK |
-| 19 | 100 | $15.49 | [Chart](https://www.tradingview.com/chart/?symbol=HQH) | abrdn Healthcare Investors | HQH |
-| 6 | 99 | $10.96 | [Chart](https://www.tradingview.com/chart/?symbol=SONO) | Sonos, Inc. Common Stock | SONO |
-| 10 | 99 | $104.58 | [Chart](https://www.tradingview.com/chart/?symbol=PDD) | PDD Holdings Inc. American Depositary Shares | PDD |
-| 5 | 97 | $130.09 | [Chart](https://www.tradingview.com/chart/?symbol=INSP) | Inspire Medical Systems, Inc. | INSP |
-| 4 | 96 | $18.70 | [Chart](https://www.tradingview.com/chart/?symbol=UVXY) | ProShares Ultra VIX Short-Term Futures ETF | UVXY |
-| 9 | 96 | $17.10 | [Chart](https://www.tradingview.com/chart/?symbol=BEAM) | Beam Therapeutics Inc. Common Stock | BEAM |
-| 5 | 95 | $80.77 | [Chart](https://www.tradingview.com/chart/?symbol=OKE) | Oneok, Inc. | OKE |
-| 9 | 95 | $48.63 | [Chart](https://www.tradingview.com/chart/?symbol=SNY) | Sanofi American Depositary Shares (Each representing one-half of one ordinary share) | SNY |
-| 10 | 95 | $52.08 | [Chart](https://www.tradingview.com/chart/?symbol=CNMD) | CONMED Corporation | CNMD |
-| 14 | 95 | $10.28 | [Chart](https://www.tradingview.com/chart/?symbol=LBTYA) | Liberty Global Ltd. Class A Common Shares | LBTYA |
-| 16 | 95 | $25.79 | [Chart](https://www.tradingview.com/chart/?symbol=ATHM) | Autohome Inc. American Depositary Shares, each representing four Class A Ordinary Shares | ATHM |
-| 18 | 95 | $86.04 | [Chart](https://www.tradingview.com/chart/?symbol=BIDU) | Baidu, Inc. | BIDU |
-| 18 | 95 | $15.07 | [Chart](https://www.tradingview.com/chart/?symbol=PAXS) | PIMCO Access Income Fund | PAXS |
-| 8 | 94 | $12.48 | [Chart](https://www.tradingview.com/chart/?symbol=WSR) | Whitestone REIT | WSR |
-| 10 | 94 | $67.32 | [Chart](https://www.tradingview.com/chart/?symbol=WK) | Workiva Inc. | WK |
-| 18 | 94 | $25.30 | [Chart](https://www.tradingview.com/chart/?symbol=DOG) | ProShares Short Dow30 | DOG |
-| 14 | 93 | $15.09 | [Chart](https://www.tradingview.com/chart/?symbol=PLSE) | Pulse Biosciences, Inc Common Stock (DE) | PLSE |
-| 16 | 92 | $21.37 | [Chart](https://www.tradingview.com/chart/?symbol=KIDS) | OrthoPediatrics Corp. Common Stock | KIDS |
-| 18 | 92 | $35.59 | [Chart](https://www.tradingview.com/chart/?symbol=WPP) | WPP PLC | WPP |
-| 23 | 92 | $28.26 | [Chart](https://www.tradingview.com/chart/?symbol=RNA) | Avidity Biosciences, Inc. Common Stock | RNA |
-| 24 | 92 | $10.35 | [Chart](https://www.tradingview.com/chart/?symbol=MUC) | BLACKROCK MUNIHOLDINGS CALIFORNIA QUALITY FUND, INC | MUC |
-| 15 | 91 | $30.57 | [Chart](https://www.tradingview.com/chart/?symbol=AXTA) | Axalta Coating Systems Ltd. | AXTA |
-| 16 | 91 | $73.14 | [Chart](https://www.tradingview.com/chart/?symbol=TNET) | TRINET GROUP, INC. | TNET |
-| 14 | 89 | $41.12 | [Chart](https://www.tradingview.com/chart/?symbol=UDR) | UDR, Inc. | UDR |
-| 17 | 89 | $132.25 | [Chart](https://www.tradingview.com/chart/?symbol=KMB) | Kimberly-Clark Corp. | KMB |
-| 19 | 89 | $339.85 | [Chart](https://www.tradingview.com/chart/?symbol=EG) | Everest Group, Ltd. | EG |
-| 20 | 89 | $86.65 | [Chart](https://www.tradingview.com/chart/?symbol=SIGI) | Selective Insurance Group | SIGI |
-| 17 | 88 | $22.12 | [Chart](https://www.tradingview.com/chart/?symbol=SGRY) | Surgery Partners, Inc. Common Stock | SGRY |
-| 18 | 88 | $75.35 | [Chart](https://www.tradingview.com/chart/?symbol=CNS) | Cohen & Steers Inc. | CNS |
-| 21 | 88 | $12.99 | [Chart](https://www.tradingview.com/chart/?symbol=MRTN) | Marten Transport Ltd | MRTN |
-| 19 | 87 | $18.77 | [Chart](https://www.tradingview.com/chart/?symbol=MSDL) | Morgan Stanley Direct Lending Fund | MSDL |
-| 17 | 86 | $124.38 | [Chart](https://www.tradingview.com/chart/?symbol=RGEN) | Repligen Corp | RGEN |
-| 18 | 86 | $287.35 | [Chart](https://www.tradingview.com/chart/?symbol=UTHR) | United Therapeutics Corp | UTHR |
-| 21 | 86 | $14.26 | [Chart](https://www.tradingview.com/chart/?symbol=BMEZ) | BlackRock Health Sciences Term Trust | BMEZ |
-| 16 | 84 | $17.58 | [Chart](https://www.tradingview.com/chart/?symbol=DIV) | Global X SuperDividend U.S. ETF | DIV |
-| 17 | 84 | $26.06 | [Chart](https://www.tradingview.com/chart/?symbol=DRV) | Direxion Daily Real Estate Bear 3X Shares | DRV |
-| 26 | 84 | $17.62 | [Chart](https://www.tradingview.com/chart/?symbol=S) | SentinelOne, Inc. | S |
-| 20 | 81 | $132.15 | [Chart](https://www.tradingview.com/chart/?symbol=ICUI) | ICU Medical Inc | ICUI |
-| 21 | 81 | $67.97 | [Chart](https://www.tradingview.com/chart/?symbol=BRC) | Brady Corporation | BRC |
-| 26 | 81 | $302.01 | [Chart](https://www.tradingview.com/chart/?symbol=ACN) | Accenture PLC | ACN |
-| 25 | 80 | $41.55 | [Chart](https://www.tradingview.com/chart/?symbol=NBTB) | NBT Bancorp Inc | NBTB |
-| 26 | 78 | $58.23 | [Chart](https://www.tradingview.com/chart/?symbol=RIO) | Rio Tinto plc | RIO |
-| 34 | 76 | $12.00 | [Chart](https://www.tradingview.com/chart/?symbol=ZVZZT) | SUPER Montage TEST SYMBOL | ZVZZT |
-| 31 | 75 | $52.65 | [Chart](https://www.tradingview.com/chart/?symbol=LW) | Lamb Weston Holdings, Inc. | LW |
+| 2 | 100 | $19.95 | [Chart](https://www.tradingview.com/chart/?symbol=BITI) | ProShares Short Bitcoin ETF | BITI |
+| 2 | 100 | $44.09 | [Chart](https://www.tradingview.com/chart/?symbol=LINE) | Lineage, Inc. Common Stock | LINE |
+| 3 | 100 | $16.66 | [Chart](https://www.tradingview.com/chart/?symbol=SDS) | ProShares UltraShort S&P500 | SDS |
+| 3 | 100 | $40.02 | [Chart](https://www.tradingview.com/chart/?symbol=SDOW) | ProShares UltraPro Short Dow 30 | SDOW |
+| 4 | 100 | $17.25 | [Chart](https://www.tradingview.com/chart/?symbol=CODI) | Compass Diversified | CODI |
+| 5 | 100 | $33.95 | [Chart](https://www.tradingview.com/chart/?symbol=PSQ) | ProShares Short QQQ | PSQ |
+| 5 | 100 | $81.56 | [Chart](https://www.tradingview.com/chart/?symbol=LNTH) | Lantheus Holdings, Inc | LNTH |
+| 6 | 100 | $23.68 | [Chart](https://www.tradingview.com/chart/?symbol=DXD) | ProShares UltraShort Dow 30 | DXD |
+| 7 | 100 | $29.05 | [Chart](https://www.tradingview.com/chart/?symbol=CRNX) | Crinetics Pharmaceuticals, Inc. | CRNX |
+| 8 | 100 | $25.60 | [Chart](https://www.tradingview.com/chart/?symbol=ZSL) | ProShares UltraShort Silver | ZSL |
+| 8 | 100 | $11.71 | [Chart](https://www.tradingview.com/chart/?symbol=KELYA) | Kelly Services Inc | KELYA |
+| 9 | 100 | $105.26 | [Chart](https://www.tradingview.com/chart/?symbol=PDD) | PDD Holdings Inc. American Depositary Shares | PDD |
+| 10 | 100 | $13.69 | [Chart](https://www.tradingview.com/chart/?symbol=OCSL) | Oaktree Specialty Lending Corporation | OCSL |
+| 10 | 100 | $39.69 | [Chart](https://www.tradingview.com/chart/?symbol=SH) | ProShares Short S&P500 | SH |
+| 10 | 100 | $36.33 | [Chart](https://www.tradingview.com/chart/?symbol=SARK) | Investment Managers Series Trust II Tradr 1X Short Innovation Daily ETF | SARK |
+| 10 | 100 | $10.60 | [Chart](https://www.tradingview.com/chart/?symbol=LBTYK) | Liberty Global Ltd. Class C Common Shares | LBTYK |
+| 12 | 100 | $17.98 | [Chart](https://www.tradingview.com/chart/?symbol=ZTO) | ZTO Express (Cayman) Inc. American Depositary Shares, each representing one Class A ordinary share | ZTO |
+| 17 | 100 | $15.49 | [Chart](https://www.tradingview.com/chart/?symbol=HQH) | abrdn Healthcare Investors | HQH |
+| 15 | 98 | $18.16 | [Chart](https://www.tradingview.com/chart/?symbol=DJT) | Trump Media & Technology Group Corp. Common Stock | DJT |
+| 12 | 97 | $84.27 | [Chart](https://www.tradingview.com/chart/?symbol=KSPI) | Joint Stock Company Kaspi.kz American Depository Shares | KSPI |
+| 15 | 97 | $25.19 | [Chart](https://www.tradingview.com/chart/?symbol=DOG) | ProShares Short Dow30 | DOG |
+| 16 | 97 | $15.05 | [Chart](https://www.tradingview.com/chart/?symbol=PAXS) | PIMCO Access Income Fund | PAXS |
+| 4 | 96 | $80.69 | [Chart](https://www.tradingview.com/chart/?symbol=OKE) | Oneok, Inc. | OKE |
+| 9 | 96 | $52.08 | [Chart](https://www.tradingview.com/chart/?symbol=CNMD) | CONMED Corporation | CNMD |
+| 15 | 96 | $25.79 | [Chart](https://www.tradingview.com/chart/?symbol=ATHM) | Autohome Inc. American Depositary Shares, each representing four Class A Ordinary Shares | ATHM |
+| 17 | 96 | $86.70 | [Chart](https://www.tradingview.com/chart/?symbol=BIDU) | Baidu, Inc. | BIDU |
+| 7 | 95 | $12.48 | [Chart](https://www.tradingview.com/chart/?symbol=WSR) | Whitestone REIT | WSR |
+| 9 | 95 | $49.14 | [Chart](https://www.tradingview.com/chart/?symbol=SNY) | Sanofi American Depositary Shares (Each representing one-half of one ordinary share) | SNY |
+| 14 | 94 | $10.34 | [Chart](https://www.tradingview.com/chart/?symbol=LBTYA) | Liberty Global Ltd. Class A Common Shares | LBTYA |
+| 17 | 94 | $341.63 | [Chart](https://www.tradingview.com/chart/?symbol=EG) | Everest Group, Ltd. | EG |
+| 22 | 94 | $10.35 | [Chart](https://www.tradingview.com/chart/?symbol=MUC) | BLACKROCK MUNIHOLDINGS CALIFORNIA QUALITY FUND, INC | MUC |
+| 15 | 93 | $21.37 | [Chart](https://www.tradingview.com/chart/?symbol=KIDS) | OrthoPediatrics Corp. Common Stock | KIDS |
+| 14 | 92 | $131.91 | [Chart](https://www.tradingview.com/chart/?symbol=KMB) | Kimberly-Clark Corp. | KMB |
+| 18 | 91 | $86.65 | [Chart](https://www.tradingview.com/chart/?symbol=SIGI) | Selective Insurance Group | SIGI |
+| 13 | 90 | $41.30 | [Chart](https://www.tradingview.com/chart/?symbol=UDR) | UDR, Inc. | UDR |
+| 16 | 90 | $75.35 | [Chart](https://www.tradingview.com/chart/?symbol=CNS) | Cohen & Steers Inc. | CNS |
+| 19 | 89 | $15.24 | [Chart](https://www.tradingview.com/chart/?symbol=PLSE) | Pulse Biosciences, Inc Common Stock (DE) | PLSE |
+| 19 | 89 | $36.10 | [Chart](https://www.tradingview.com/chart/?symbol=WPP) | WPP PLC | WPP |
+| 16 | 88 | $287.35 | [Chart](https://www.tradingview.com/chart/?symbol=UTHR) | United Therapeutics Corp | UTHR |
+| 16 | 88 | $30.95 | [Chart](https://www.tradingview.com/chart/?symbol=AXTA) | Axalta Coating Systems Ltd. | AXTA |
+| 18 | 88 | $18.83 | [Chart](https://www.tradingview.com/chart/?symbol=MSDL) | Morgan Stanley Direct Lending Fund | MSDL |
+| 21 | 87 | $75.78 | [Chart](https://www.tradingview.com/chart/?symbol=TNET) | TRINET GROUP, INC. | TNET |
+| 16 | 85 | $26.06 | [Chart](https://www.tradingview.com/chart/?symbol=DRV) | Direxion Daily Real Estate Bear 3X Shares | DRV |
+| 29 | 85 | $29.19 | [Chart](https://www.tradingview.com/chart/?symbol=RNA) | Avidity Biosciences, Inc. Common Stock | RNA |
+| 18 | 83 | $132.15 | [Chart](https://www.tradingview.com/chart/?symbol=ICUI) | ICU Medical Inc | ICUI |
+| 19 | 83 | $67.97 | [Chart](https://www.tradingview.com/chart/?symbol=BRC) | Brady Corporation | BRC |
+| 22 | 83 | $41.55 | [Chart](https://www.tradingview.com/chart/?symbol=NBTB) | NBT Bancorp Inc | NBTB |
+| 25 | 81 | $303.59 | [Chart](https://www.tradingview.com/chart/?symbol=ACN) | Accenture PLC | ACN |
+| 30 | 80 | $18.02 | [Chart](https://www.tradingview.com/chart/?symbol=S) | SentinelOne, Inc. | S |
+| 31 | 79 | $12.00 | [Chart](https://www.tradingview.com/chart/?symbol=ZVZZT) | SUPER Montage TEST SYMBOL | ZVZZT |
+| 31 | 74 | $53.07 | [Chart](https://www.tradingview.com/chart/?symbol=LW) | Lamb Weston Holdings, Inc. | LW |
+| 39 | 62 | $39.54 | [Chart](https://www.tradingview.com/chart/?symbol=LZB) | La-Z-Boy Incorporated | LZB |
 
 ## **Methodology**
 
